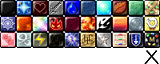
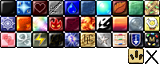
pox marks, more map screen stuff

Changed region(s): [[0.7812, 0.75, 0.9062, 1.0]]

diff --git a/scripts/scrDataPox.js b/scripts/scrDataPox.js
@@ -1,13 +1,38 @@
-var arrPoxRefRoll = ["f0","713:364","713:364","713:364","713:364","f1","713:364","713:364","713:364","713:364","f2","713:364","713:364","713:364","713:364","f3","713:364","713:364","713:364","713:364","f0","713:364","713:364","713:364","713:364","f1","713:364","713:364","713:364","713:364","f2","713:364","713:364","713:364","713:364","f3","713:364","713:364","713:364","713:364","f0","713:364","713:364","f64","713:364","713:364","713:364","f65","713:364","713:364","713:364","713:364","713:364","713:364","713:364","713:364","713:364","f3","713:364","713:364","f29","713:364","713:364","713:364","f30","713:364","713:364","713:364","713:364","713:364","f44","713:364","f4","712:350","711:350","710:350","f5","709:358","708:358","f7","707:364","703:364","700:364","f6","697:364","694:364","692:364","f8","691:364","689:364","688:364","f7","688:364","688:364","688:364","f6","688:364","688:364","688:364","f8","688:364","688:364","f7","688:364","688:364","f6","688:364","688:364","f8","688:364","688:364","f7","688:364","688:364","f6","688:364","688:364","f8","688:364","f7","688:364","f6","688:364","f8","688:364","f7","688:364","f6","688:364","f8","688:364","f7","688:364","f6","684:365","f8","670:366","f7","658:366","f6","649:366","f8","635:366","f7","623:366","f6","605:366","f8","583:366","f7","558:364","f6","535:364","f8","516:364","f7","491:366","f6","465:366","f8","438:366","f7","422:366","f6","401:367","f8","376:368","f7","353:368","f6","334:367","f8","314:367","f7","289:366","f6","268:366","f8","252:364","f7","237:362","f5","215:358","215:358","f4","215:352","215:352","f38","215:362","215:362","f3","215:362","215:362","215:362","f0","215:362","215:362","f64","215:362","f27","215:362","215:362","f67","215:362","215:362","f68","215:362","215:362","215:362","f67","215:362","215:362","f27","215:362","215:362","f28","215:362","215:362","f27","215:362","215:362","f28","215:362","215:362","f27","215:362","215:362","f28","215:362","215:362","f27","215:362","215:362","f28","215:362","215:362","f27","215:362","215:362"];
+var arrPoxRefRoll = ["f0","713:364","713:364","713:364","713:364","f1","713:364","713:364","713:364","713:364","f2","713:364","713:364","713:364","713:364","f3","713:364","713:364","713:364","713:364","f0","713:364","713:364","713:364","713:364","f1","713:364","713:364","713:364","713:364","f2","713:364","713:364","713:364","713:364","f3","713:364","713:364","713:364","713:364","f0","713:364","713:364","f64","713:364","713:364","713:364","f65","713:364","713:364","713:364","713:364","713:364","713:364","713:364","713:364","713:364","f3","713:364","713:364","f29","713:364","713:364","713:364","f30","713:364","713:364","713:364","713:364","713:364","f44","713:364","f4","712:350","711:350","710:350","f5","709:358","708:358","f7","707:364","703:364","700:364","f6","697:364","694:364","692:364","f8","691:364","689:364","688:364","f7","688:364","688:364","688:364","f6","688:364","688:364","688:364","f8","688:364","688:364","f7","688:364","688:364","f6","688:364","688:364","f8","688:364","688:364","f7","688:364","688:364","f6","688:364","688:364","f8","688:364","f7","688:364","f6","688:364","f8","688:364","f7","688:364","f6","688:364","f8","688:364","f7","688:364","f6","684:365","f8","670:366","f7","658:366",
+"a14,14","f6","649:366","f8","635:366","f7","623:366","f6","605:366","f8","583:366","a13,14","f7","558:364","f6","535:364","f8","516:364","f7","491:366","f6","465:366","f8","438:366","a12,14","f7","422:366","f6","401:367","f8","376:368","f7","353:368","a11,14","f6","334:367","f8","314:367","f7","289:366","f6","268:366","a10,14","f8","252:364","f7","237:362","f5","215:358","215:358","f4","215:352","215:352","f38","215:362","215:362","f3","215:362","215:362","215:362","f0","215:362","215:362","f64","215:362","f27","215:362","215:362","f67","215:362","215:362","f68","215:362","215:362","215:362","f67","215:362","215:362","f27","215:362","215:362","f28","215:362","215:362","f27","215:362","215:362","f28","215:362",  "215:362","f27","215:362","215:362","f28","215:362","215:362","f27","215:362","215:362","f28","215:362","215:362","f27","215:362","215:362"]; 
 
 var arrPoxBite = ["f20","745:017","745:021","f21","745:023","745:026","7 45:028","745:032","745:033","f22","745:034","745:037","745:041","745:044","745:045","745:049","f23","745:053","745:058","745:066","745:076","745:091","745:105","745:120","745:136","f24","745:151","745:165","745:181","745:195","745:208","f25","745:215","745:215","745:215","f26","745:215","745:215","745:215","745:215","f25","745:215","745:215","f10","745:215","745:215","f09","745:215","745:215","f0","745:215","745:215","745:215","f1","745:215","745:215","745:215","745:215","f2","745:215","745:215","745:215","745:215","f3","745:215","745:215","745:215","745:215","f0","745:215","745:215","745:215","745:215","f1","745:215","f44","745:215","745:215","f58","745:215","745:215","f56","745:215","745:215","745:215","745:215","745:215","745:215","f57","745:215","t","745:215","745:215","f58","745:215","745:215","f56","745:215","745:215","745:215","745:215","f57","745:215","t","745:215","745:215","f58","745:215","745:215","f56","745:215","745:215","745:215","745:215","f57","745:215","t","745:215","745:215","745:215","745:215","745:215","745:215","f64","745:215","745:215","f9","745:215","745:215","f10","745:215","745:215","f16","745:215","745:215","745:215","745:215","f54","745:215","745:215","745:215","745:215","745:215","745:215","f55","745:215","745:215","745:215","745:215","745:215","745:215","f54","745:215","745:215","745:215","745:215","745:215","745:215","f55","745:215","745:215","745:215","745:215","745:215","745:215","f54","745:215","745:215","745:215","745:215","745:215","745:215","f55","745:215","745:215","745:215","745:215","745:215","745:215","745:215","745:215","745:215","745:215","745:215","745:215","745:215","745:215","f54","745:215","745:215","f16","745:215","745:215"];
+
+
+
+
+
 var arrPoxHop = ["f0","559:111","559:111","559:111","559:111","f1","559:111","559:111","559:111","559:111","f2","559:111","559:111","559:111","559:111","f3","559:111","559:111","559:111","559:111","f0","559:111","559:111","559:111","559:111","f1","559:111","559:111","559:111","559:111","f0","559:111","559:111","559:111","f44","559:111","559:111","f45","559:111","559:111","559:111","f46","559:105","559:096","558:087","f47","555:080","551:073","546:066","f48","543:064","539:062","537:061","535:062","f49","530:063","527:066","522:071","f50","516:081","513:094","512:106","f44","511:114","511:114","f45","511:114","511:114","f46","508:102","504:090","f47","497:078","491:070","f48","485:064","482:061","480:060","f49","479:060","472:062","465:068","f50","459:077","456:084","453:096","f44","451:105","451:105","f45","451:105","451:105","f46","450:095","448:083","f47","444:073","440:063","f48","436:060","432:058","428:057","422:058","f49","415:061","411:065","f50","406:076","401:089","f44","397:102","397:102","f45","397:102","397:102","f46","396:095","394:085","f47","391:073","388:064","385:059","f48","382:056","379:053","376:052","373:052","f49","370:053","367:056","364:060","f50","361:067","358:080","356:094","f44","355:102","355:102","f45","355:103","355:103","f46","352:097","348:085","f47","344:074","340:068","f48","336:062","332:058","f49","328:059","324:059","320:061","316:069","f50","312:078","308:092","304:103","f37","300:113","300:113","f44","300:113","300:113","f0","300:113","300:113","300:113","300:113","f1","300:113","300:113","300:113","300:113","f2","300:113","300:113","300:113","300:113","f3","300:113","300:113","300:113","300:113","f0","300:113"];
+
+
+
+
+
 var arrPoxScratch = ["f20","688:301","688:303","f21","688:306","688:309","688:311","688:313","f22","688:317","688:320","688:324","688:329","f23","688:336","688:342","688:351","688:361","688:373","f24","688:387","688:401","688:416","f25","688:432","688:432","688:432","f26","688:432","688:432","688:432","688:432","f25","688:432","688:432","f10","688:432","688:432","f9","688:432","688:432","f0","688:432","688:432","688:432","688:432","f1","688:432","688:432","688:432","688:432","f29","688:432","688:432","f30","688:432","688:432","688:432","688:432","688:432","688:432","688:432","688:432","688:432","688:432","684:409","f31","668:378","651:348","632:321","616:301","605:282","597:265","586:244","f32","577:231","568:219","558:211","f33","550:205","543:200","535:197","f39","527:193","521:191","515:189","509:189","f40","504:191","498:193","491:196","485:201","f41","476:206","a009","476:206","a010","476:206","476:206","476:206","476:206","476:206","476:206","476:206","476:206","476:206","476:206","476:206","476:206","476:206","476:206","476:206","476:206","476:206","476:207","476:208","476:209","476:210","476:211","476:212","476:213","476:214","476:215","476:216","476:217","f42","476:218","476:219","476:220","476:221","476:222","476:223","f43","476:224","476:225","476:226","476:227","476:228","f42","476:229","476:230","476:231","476:232","f41","476:233","476:234","476:235","476:236","f42","476:237","476:238","476:239","476:240","f43","476:242","476:244","476:247","476:249","f42","476:253","476:255","476:257","476:260","f41","476:262","476:266","476:270","476:274","f42","476:278","476:283","476:288","f43","476:292","476:295","476:299","f42","476:303","476:305","476:310","f41","476:315","476:317","476:319","f42","476:321","476:324","476:329","f43","476:334","476:337","476:338","f42","476:338","476:338","f40","475:334","474:328","f39","471:320","468:316","465:315","f33","462:315","459:315","456:317","453:320","450:321","447:328","444:338","f34","441:346","438:350","435:357","432:365","429:371","f35","426:386","423:406","420:421","417:438","f36","415:443","415:443","f37","415:443","415:443","f38","415:443","415:443","f0","415:443","415:443","415:443","415:443","f1","415:443","415:443","415:443","415:443","f2","415:443","415:443","415:443","415:443","f64","415:443","415:443","f28","415:443","415:443","f27","415:443","415:443","f28","415:443","415:443","f27","415:443","415:443","f28","415:443","415:443","f27","415:443","415:443","f28","415:443","415:443"]; 
+
+
+
+
 
 var arrPoxSideLeap = ["f20","681:226","681:227","f21","681:229","681:231","681:234","681:238","681:243","f22","681:246","681:251","681:257","681:265","681:275","f23","681:289","681:304","681:319","681:330","f24","681:343","681:359","681:368","f25","681:368","681:368","681:368","f26","681:368","681:368","681:368","681:368","f25","681:368","681:368","f10","681:368","681:368","f09","681:368","681:368","f0","681:368","681:368","f1","681:368","f29","681:368","681:368","f30","681:368","681:368","681:368","681:368","f31","679:351","676:342","673:329","f32","667:310","659:295","f33","649:273","637:257","627:242","617:231","f34","607:222","601:217","591:213","583:211","573:209","564:211","f35","554:215","545:221","535:234","527:258","520:292","f36","517:315","a177","517:315","f37","517:315","517:315","f38","517:315","517:315","f0","517:315","517:315","517:315","517:315","f1","517:315","517:315","517:315","517:315","f2","517:315","517:315","517:315","517:315","f3","517:315","517:315","517:315","517:315","f0","517:315","517:315","517:315","517:315"];
 
 
+
+
+
+
+
 var arrPoxStampHop=["f0","594:197","594:197","594:197","594:197","f1","594:197","594:197","594:197","594:197","f2","594:197","594:197","594:197","594:197","f3","594:197","594:197","594:197","594:197","f0","594:197","594:197","594:197","594:197","f1","594:197","594:197","594:197","594:197","f0","594:197","594:197","594:197","f69","594:197","594:197","f53","594:197","594:197","594:197","f46","594:191","594:182","593:173","f47","590:166","586:159","581:152","f48","578:150","574:148","572:147","570:148","f51","565:149","562:152","557:157","551:167","548:180","f52","547:196","547:196","f69","546:200","546:200","f53","546:200","a074","546:200","f46","543:188","539:176","f47","532:164","526:156","f48","520:150","517:147","515:146","f51","514:146","507:148","500:154","494:163","491:170","f52","488:187","488:187","f69","486:191","a055","486:191","f53","486:191","486:191","f46","485:181","483:169","f47","479:159","475:149","f48","471:146","467:144","463:143","457:144","f51","450:147","446:151","441:162","f52","436:184","436:184","f69","432:188","432:188","f53","432:188","432:188","f46","431:181","a052","429:171","f47","426:159","423:150","420:145","f48","417:142","414:139","411:138","408:138","f51","405:139","402:142","399:146","396:153","393:166","f52","391:184","391:184","f69","390:188","390:188","f53","390:189","a049","390:189","f46","387:183","383:171","f47","379:160","375:154","f48","371:148","367:144","f51","363:145","359:145","355:147","351:155","347:164","343:178","f52","339:195","339:195","f69","335:199","a061","335:199","f36","335:199","335:199","f37","335:199","335:199","f38","335:199","335:199","f0","335:199","335:199","335:199","335:199","f1","335:199","335:199","335:199","335:199","f2","335:199","335:199","335:199","335:199","f3","335:199","335:199","335:199","335:199","f0","335:199","335:199","335:199","335:199"];
+
+
+
+
+
 
 
 var arrPoxShake = ["f16","689:373","689:373","689:373","689:373","689:373","689:373","689:373","689:373","689:373","689:373","689:373","689:373","689:373","689:373","689:373","689:373","689:373","689:373","689:373","689:373","689:373","689:373","f17","689:373","689:373","689:373","f18","689:373","689:373","689:373","689:373","689:373","689:373","689:373","689:373","689:373","f19","689:369","689:360","689:348","689:333","689:318","689:298","689:281","689:258","689:242","f20","689:232","689:224","689:213","f21","689:204","689:199","689:198","f22","689:197","689:196","f23","689:196","689:197","689:198","f24","689:199","689:201","689:204","689:213","f25","689:217","689:217","689:217","f16","689:217","689:217","689:217","f10","689:217","689:217","689:217","f09","689:217","689:217","f56","689:217","689:217","f40","689:217","689:217","689:217","689:217","f63","689:217","689:217","689:217","f61","689:217","t","689:217","t","689:217","f62","689:217","689:217","689:217","f63","689:217","689:217","689:217","f61","689:217","t","689:217","t","689:217","f62","689:217","689:217","689:217","f63","689:217","689:217","689:217","f61","689:217","t","689:217","t","689:217","f62","689:217","689:217","689:217","f63","689:217","689:217","689:217","f61","689:217","t","689:217","t","689:217","f62","689:217","689:217","689:217","f63","689:217","689:217","689:217","f61","689:217","t","689:217","t","689:217","f62","689:217","689:217","689:217","f63","689:217","689:217","689:217","f61","689:217","t","689:217","t","689:217","f62","689:217","689:217","689:217","f63","689:217","689:217","689:217","f61","689:217","t","689:217","t","689:217","f62","689:217","689:217","689:217","f63","689:217","689:217","f40","689:217","689:217","f39","689:217","689:217","f0","689:217","689:217","689:217","689:217","f1","689:217","689:217","689:217","689:217","f2","689:217","689:217","689:217","689:217","f3","689:217","689:217","689:217","689:217","f0","689:217","689:217","689:217","689:217","f1","689:217","689:217","689:217","689:217","f2","689:217","689:217","689:217","689:217","f3","689:217","689:217","689:217","689:217","f0","689:217","689:217","689:217","689:217"]; 

diff --git a/scripts/scrPlay.js b/scripts/scrPlay.js
@@ -50,6 +50,10 @@ function DoMark(thiscel){
 			thiscel.css("background-position",markposnot);
 		}
 	}
+	if(thiscel.attr("data-mark")=="pox"){
+		//thiscel.html("O");
+		thiscel.css("background-position",markpox);
+	}
 	CheckCompletion();
 }
 function CheckCompletion(){
@@ -64,17 +68,24 @@ function CheckCompletion(){
 function IsFinished(){
 	return gPuzPlayer == gPuzCorrect;
 }
+function PauseTimer(tf){
+		
+		gPaused = tf;
+}
 function TimerTick(){
-	gPuzTime--;
-	var strmin = parseInt(gPuzTime/60);
-	var strsec = gPuzTime%60;;
-	if(parseInt(strsec)<10){strsec = "0"+strsec;}
-	var strTime = strmin+":"+strsec;
-	if(gPuzTime < 1){
-		strTime = "TIME!";
-		clearInterval(gTimerInterval);
+	if(!gPaused){
+			 
+		gPuzTime--;
+		var strmin = parseInt(gPuzTime/60);
+		var strsec = gPuzTime%60;;
+		if(parseInt(strsec)<10){strsec = "0"+strsec;}
+		var strTime = strmin+":"+strsec;
+		if(gPuzTime < 1){
+			strTime = "TIME!";
+			clearInterval(gTimerInterval);
+		}
+		$("#dClock").html(strTime);
 	}
-	$("#dClock").html(strTime);
 }
 
 function RevealFootprint(){

diff --git a/scripts/scrPox.js b/scripts/scrPox.js
@@ -6,7 +6,7 @@ var gCurAnim;
 var gPoxHpMax=6;
 var gPoxHp;
 
-var gPoxAll = [arrPoxBite,arrPoxScratch,arrPoxShake,arrPoxRefRoll,arrPoxHop,arrPoxStampHop,arrPoxSideLeap];
+var gPoxAll = [arrPoxRefRoll];//,arrPoxBite,arrPoxScratch,arrPoxShake,arrPoxHop,arrPoxStampHop,arrPoxSideLeap];
 
 function PoxStart(){
 		
@@ -30,13 +30,17 @@ function PoxLoop(){
 	gPoxItr++;
 	if(gPoxItr < gCurAnim.length){
 			
-			
 		var action = gCurAnim[gPoxItr];
 		if(action.substring(0,1)=="f"){
 			PoxFrame(action.substring(1));
 		}
 		else{
-			PoxMove(action);
+			if(action.substring(0,1)=="a"){
+				PoxAttack(action.substring(1));
+			}
+				else{ 
+					PoxMove(action);
+				}
 		}	
 	}
 	else{
@@ -72,6 +76,14 @@ function PoxFrame(i){
 	
 	var coords = cx+"px "+ cy+ "px";
 	$("#dPox").css("background-position",coords);
+}
+function PoxAttack(coords){
+		var x = coords.split(",")[0];
+		var y = coords.split(",")[1];
+		var poxedcel = $(".cel[data-x='"+x+"'][data-y='"+y+"']");
+		poxedcel.attr("data-mark", "pox");
+		DoMark(poxedcel);
+		
 }
 function PoxHit(){
 		

diff --git a/scripts/scrMap.js b/scripts/scrMap.js
@@ -1,14 +1,22 @@
  function InitMap(){
 	 
 	 
+	 PauseTimer(true);
 	 //$("#dPuzzles").css("background-image","url('images/map.jpg')").fadeIn();  
-	 $("#dPuzzles").html("<img src='images/map.jpg'/> <div id='btnReturn' class='btnTitle'>Return</div><div id='btnCredits' class='btnTitle'>Credits</div>  ").fadeIn(); 
+	 $("#dPuzzles").html("<img src='images/map.jpg'/>  <div id='btnReturnTitle' class='btnBig'>Back to Title</div><div id='btnReturn' class='btnTitle'>Resume</div><div id='btnCredits' class='btnTitle'>Credits</div>  ").fadeIn(); 
 	
 	 $("#btnReturn").on("click", HideMap);
+	 $("#btnReturnTitle").on("click", TitleScreen);
 	 $("#btnCredits").on("click", Credits);
 	 DialogueOpen();
+	 
  }
  function HideMap(){
+	 $("#dPuzzles").fadeOut().off("click", HideMap);
+	 PauseTimer(false);
+	 DialogueClose();
+ }
+ function TitleScreen(){
 	 $("#dPuzzles").fadeOut().off("click", HideMap);
 	 DialogueClose();
  }

diff --git a/css/styledivs.css b/css/styledivs.css
@@ -135,13 +135,7 @@
 	
 }
 #dGlyphletConfirm{
-	display:block;
-	background-image:url("../images/btnWide.png");
-	border:none;
-	background-repeat:no-repeat;
-	min-width:160px;
-	min-height:42px;
-	text-align:center;  
+	display:block; 
 	top: 110%;
 	vertical-align: middle;
 	line-height: 42px;   
@@ -162,14 +156,7 @@
 	width:95px;
 }
 #dLocPuzConfirm{
-	display:block;
-	background-image:url("../images/btnWide.png");
-	background-repeat:no-repeat;
-	border:none;
-	min-width:160px;
-	min-height:42px; 
-	text-align:center;  
-	vertical-align: middle;
+	display:block; 
 	line-height: 42px;    
     left: 50%;
     transform: translate(-50%, 0%);

diff --git a/css/styleui.css b/css/styleui.css
@@ -123,9 +123,28 @@ z-index:100;
 .btnTitle:hover{  
 	background-position-y:-42px;
 } 
+.btnBig{
+	
+	display:block;
+	background-image:url("../images/btnWide.png");
+	border:none;
+	background-repeat:no-repeat;
+	min-width:160px;
+	min-height:42px;
+	text-align:center;  
+	vertical-align: middle;
+	line-height: 42px;    
+	top: 92%;
+
+} 
+.btnBig:hover{  
+	background-position-y:-42px;
+} 
+
+#btnReturnTitle{left:60px}
 #btnNew{left:450px}
 #btnLoad{left:350px}
-#btnReturn{left:250px}
+#btnReturn{left:350px}
 #btnCredits{left:550px}
 #btnOptions{left:250px}
 

diff --git a/scripts/scrGlobal.js b/scripts/scrGlobal.js
@@ -12,6 +12,8 @@ var gStage = 1;
 var gPuzzle = 1;
 var gPart = 0;
 
+var gPaused = false;
+
 var gHighestStage=1;
 
 var gGlow = false;
@@ -27,6 +29,7 @@ var gPuzCorrect="";
 var gPuzPlayer="";
 var gUPP={};
 
+var markpox =  "-128px -48px";
 var markposin = "0px 0px";
 var markposnot = "0px -120px";
 var markposout = "-360px -120px";

diff --git a/scripts/scrGlyphlets.js b/scripts/scrGlyphlets.js
@@ -42,7 +42,7 @@ function InitGlyphlets(code){
 	return strTable;	
  }
  function BuildGlyphletConfirm(){
-	 var res = "<div id='dGlyphletConfirm'  >CONFPf3333fIMM</div>";
+	 var res = "<div id='dGlyphletConfirm' class='btnBig' >CONFPf3333fIMM</div>";
 	 return res;
  }
  function PromptGlyphletConfirm(){ 

diff --git a/scripts/scrLocPuz.js b/scripts/scrLocPuz.js
@@ -68,7 +68,7 @@
 	 return res;
  }
  function BuildLocPuzConfirm(){
-	 var res = "<div id='dLocPuzConfirm'>CONFPf3333fIMM</div>";
+	 var res = "<div id='dLocPuzConfirm' class='btnBig'>confirm</div>";
 	 return res;
  }
  function PromptLocPuz(){
